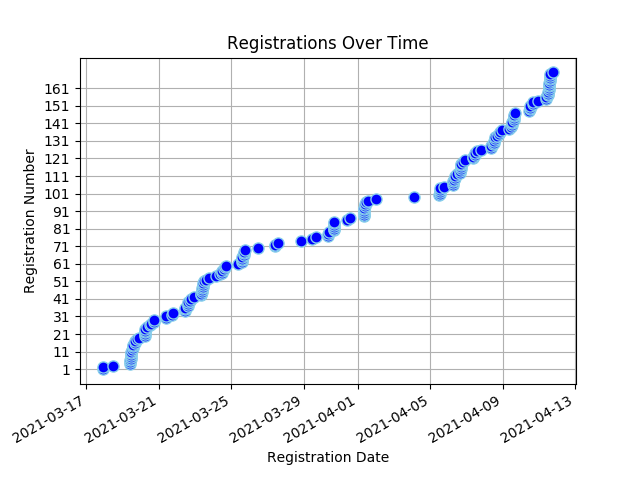
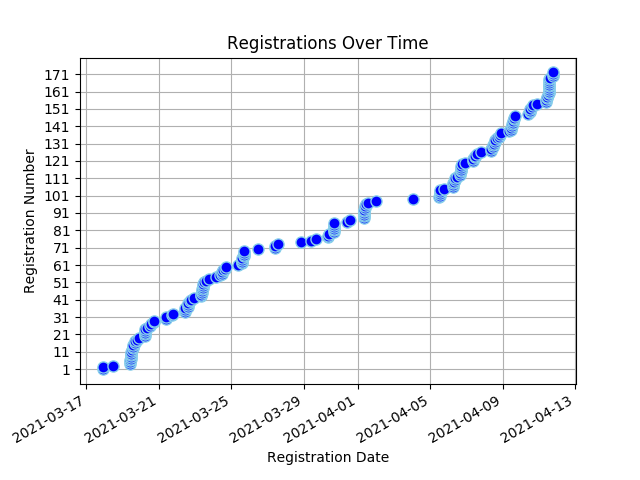
Registree stats backup on Sun 11 Apr 2021 19:36:07 SAST

Changed region(s): [[0.0625, 0.125, 0.875, 0.7188], [0.1875, 0.7188, 0.2188, 0.75]]

diff --git a/content/registrees/_index.md b/content/registrees/_index.md
@@ -3,7 +3,7 @@ title: Registration Stats
 draft: false
 ---
 
-<ul><li><strong>Number of Registrees</strong>: 170</li>
+<ul><li><strong>Number of Registrees</strong>: 172</li>
 
 <li><strong>Number of Clubs</strong>: 56</li>
 
@@ -33,6 +33,6 @@ draft: false
         </tr>
     </thead>
     <tbody>
-<tr><td>Natalie Abrahams</td><td>Cape Town</td><td>410W</td></tr><tr><td>Rashid Adams</td><td>Athlone</td><td>410W</td></tr><tr><td>Linda Anderson</td><td>George</td><td>410W</td></tr><tr><td>Linda Baumgarten</td><td>Sea Point</td><td>410W</td></tr><tr><td>Ulrike Behrens</td><td>Windhoek</td><td>410W</td></tr><tr><td>Valencia Beukes-Williams</td><td>Kuilsriver</td><td>410W</td></tr><tr><td>JOSE BRAGA BORGES</td><td>Malmesbury</td><td>410W</td></tr><tr><td>Paul Brauteseth</td><td>Port Shepstone</td><td>410E</td></tr><tr><td>Nelle Buhrmann</td><td>Sea Point</td><td>410W</td></tr><tr><td>Christopher Bull</td><td>The Wilds</td><td>410E</td></tr><tr><td>Herman Cadman</td><td>Stellenbosch</td><td>410W</td></tr><tr><td>Artemis Calomiris</td><td>Helderberg</td><td>410W</td></tr><tr><td>Linda Ann Cannone</td><td>Fish Hoek</td><td>410W</td></tr><tr><td>Lizelle Castle</td><td>Athlone</td><td>410W</td></tr><tr><td>Sue Charles</td><td>Tokai</td><td>410W</td></tr><tr><td>Perry Chetty</td><td>East Coast</td><td>410E</td></tr><tr><td>Delaney Yeltsin Cloete</td><td>Eden</td><td>410W</td></tr><tr><td>Esme Cornelius</td><td>Kuilsriver</td><td>410W</td></tr><tr><td>Sharon Cottle</td><td>Groote Schuur</td><td>410W</td></tr><tr><td>Peter Daniel</td><td>Gordons Bay</td><td>410W</td></tr><tr><td>Norma Daniel</td><td>Gordons Bay</td><td>410W</td></tr><tr><td>Engela de Kock</td><td>Swellendam</td><td>410W</td></tr><tr><td>Francois de Kock</td><td>Swellendam</td><td>410W</td></tr><tr><td>ANDRE DE VILLIERS</td><td>Malgas</td><td>410W</td></tr><tr><td>ANDRE DE VILLIERS</td><td>Malgas</td><td>410W</td></tr><tr><td>Peggy Du Plooy</td><td>Krugersdorp</td><td>410E</td></tr><tr><td>Ivan Du Plooy</td><td>Krugersdorp</td><td>410E</td></tr><tr><td>Desiree du Toit</td><td>Ramsgate</td><td>410E</td></tr><tr><td>Natalie Etridge</td><td>Sedgefield</td><td>410W</td></tr><tr><td>AIDAN Ewers</td><td>Newlands</td><td>410W</td></tr><tr><td>Roger Fahrbach</td><td>Windhoek</td><td>410W</td></tr><tr><td>Beate Fahrbach</td><td>Windhoek</td><td>410W</td></tr><tr><td>Jules Flanagan</td><td>Tokai</td><td>410W</td></tr><tr><td>Charles Flanagan</td><td>Tokai</td><td>410W</td></tr><tr><td>Clive Fox</td><td>Merriman</td><td>410W</td></tr><tr><td>Pat Fox</td><td>Merriman</td><td>410W</td></tr><tr><td>Martin Froise</td><td>Letaba Tzaneen</td><td>410E</td></tr><tr><td>Valerie Graham</td><td>Nelspruit</td><td>410E</td></tr><tr><td>Mike Graham</td><td>Nelspruit</td><td>410E</td></tr><tr><td>Viv Grater</td><td>Sedgefield</td><td>410W</td></tr><tr><td>Matty Grobler</td><td>Henties Bay</td><td>410W</td></tr><tr><td>Mattheus Groves</td><td>Sedgefield</td><td>410W</td></tr><tr><td>Barbara Haywood</td><td>Eden</td><td>410W</td></tr><tr><td>Mike Heathcote</td><td>Port Shepstone</td><td>410E</td></tr><tr><td>Zarina Hendricks</td><td>Athlone</td><td>410W</td></tr><tr><td>Dorothy Hess</td><td>Kuilsriver</td><td>410W</td></tr><tr><td>Wendy Higgins</td><td>Wilro Park</td><td>410E</td></tr><tr><td>Jacqui Hocking</td><td>Midrand</td><td>410E</td></tr><tr><td>Cliff Hocking</td><td>Midrand</td><td>410E</td></tr><tr><td>Liz Houston</td><td>Table View</td><td>410W</td></tr><tr><td>John Houston</td><td>Table View</td><td>410W</td></tr><tr><td>Alna Jackson</td><td>Pretoria Jakaranda</td><td>410E</td></tr><tr><td>Dawid Jacobs</td><td>Durbanville</td><td>410W</td></tr><tr><td>Jean Jacobs</td><td>Mitchells Plain</td><td>410W</td></tr><tr><td>WOLSLEY Jacobson</td><td>Cape Town</td><td>410W</td></tr><tr><td>MALCOLM JOHNSTON</td><td>Standerton</td><td>410E</td></tr><tr><td>Grant Jonathan</td><td>Gordons Bay</td><td>410W</td></tr><tr><td>Jerome Kern</td><td>Groote Schuur</td><td>410W</td></tr><tr><td>Ian King</td><td>Alberton</td><td>410E</td></tr><tr><td>Sandy King</td><td>Alberton</td><td>410E</td></tr><tr><td>Muya Koloko</td><td>Durbanville</td><td>410W</td></tr><tr><td>Zwaai Kruger</td><td>Sedgefield</td><td>410W</td></tr><tr><td>Natalie Laas</td><td>Alberton</td><td>410E</td></tr><tr><td>Bevil Lakay</td><td>Mitchells Plain</td><td>410W</td></tr><tr><td>Paula Lang</td><td>Gordons Bay</td><td>410W</td></tr><tr><td>Jimmy Lang</td><td>Gordons Bay</td><td>410W</td></tr><tr><td>Heather Lee</td><td>Cape Of Good Hope</td><td>410W</td></tr><tr><td>Zarina Luck</td><td>Newcastle</td><td>410E</td></tr><tr><td>Pam MacRobert</td><td>Groote Schuur</td><td>410W</td></tr><tr><td>Sharon Mangwende</td><td>Cape Town</td><td>410W</td></tr><tr><td>Richard MARCHANT</td><td>The Wilds</td><td>410E</td></tr><tr><td>Beaulieu Mare</td><td>Benoni Lakes</td><td>410E</td></tr><tr><td>Nick Maré</td><td>Benoni Lakes</td><td>410E</td></tr><tr><td>Jean Masson</td><td>Port Shepstone</td><td>410E</td></tr><tr><td>LANCE MAYTHAM</td><td>Swellendam</td><td>410W</td></tr><tr><td>ROSEMARIE MAYTHAM</td><td>Swellendam</td><td>410W</td></tr><tr><td>David Mccullough</td><td>Pretoria South</td><td>410E</td></tr><tr><td>Rochelle McDonald</td><td>Vereeniging</td><td>410E</td></tr><tr><td>Alec McKerrow</td><td>Port Alfred</td><td>410E</td></tr><tr><td>Stuart McPherson</td><td>Newlands</td><td>410E</td></tr><tr><td>Mark Meltzer</td><td>The Wilds</td><td>410E</td></tr><tr><td>Denis Meyer</td><td>Port Shepstone</td><td>410E</td></tr><tr><td>Roy Michas</td><td>Midrand</td><td>410E</td></tr><tr><td>Dawn Michas</td><td>Midrand</td><td>410E</td></tr><tr><td>BERNICE MILLS</td><td>Centurion</td><td>410E</td></tr><tr><td>Patrick Mills</td><td>Centurion</td><td>410E</td></tr><tr><td>Cherie Milosevich</td><td>Milnerton</td><td>410W</td></tr><tr><td>Alana Mitchell</td><td>Rustenburg</td><td>410E</td></tr><tr><td>Juan Mitchell</td><td>Rustenburg</td><td>410E</td></tr><tr><td>Virginia Mkhize</td><td>Cape Town</td><td>410W</td></tr><tr><td>Frauke E. Moeller</td><td>Windhoek</td><td>410W</td></tr><tr><td>Bernadine Moses</td><td>Cape Town</td><td>410W</td></tr><tr><td>Jacques Mostert</td><td>Merriman</td><td>410W</td></tr><tr><td>Suzanne Murray</td><td>Vereeniging</td><td>410E</td></tr><tr><td>Pieter Myburg</td><td>Wellington</td><td>410W</td></tr><tr><td>Pieter Nel</td><td>George</td><td>410W</td></tr><tr><td>Tillie Nel</td><td>Eden</td><td>410W</td></tr><tr><td>Mike Newlands</td><td>Port Alfred</td><td>410E</td></tr><tr><td>Mike Newlands</td><td>Port Alfred</td><td>410E</td></tr><tr><td>Chris Ocker</td><td>Fish Hoek</td><td>410W</td></tr><tr><td>Jenny Ocker</td><td>Fish Hoek</td><td>410W</td></tr><tr><td>Debra Olivier</td><td>Sedgefield</td><td>410W</td></tr><tr><td>Teresa Pantoleon</td><td>Vereeniging</td><td>410E</td></tr><tr><td>Sundru Pillay</td><td>Durbanville</td><td>410W</td></tr><tr><td>Tracey Polkinghorne</td><td>Kensington</td><td>410E</td></tr><tr><td>Gavin Polkinghorne</td><td>Kensington</td><td>410E</td></tr><tr><td>BRIAN PORTEOUS</td><td>Hibberdene</td><td>410E</td></tr><tr><td>Mary-Anne Ras</td><td>Swellendam</td><td>410W</td></tr><tr><td>Hugo Reniers</td><td>Nelspruit</td><td>410E</td></tr><tr><td>Mark Rossouw</td><td>Tokai</td><td>410W</td></tr><tr><td>Anthonie Petrus Roux</td><td>Moorreesburg</td><td>410W</td></tr><tr><td>Irene Rugheimer</td><td>Bedfordview</td><td>410E</td></tr><tr><td>Ingrid Russell</td><td>Fish Hoek</td><td>410W</td></tr><tr><td>Sharon Sampie</td><td>Bergvliet</td><td>410W</td></tr><tr><td>Frank Schatz</td><td>Windhoek</td><td>410W</td></tr><tr><td>Vera Schatz</td><td>Windhoek</td><td>410W</td></tr><tr><td>Francis Searle</td><td>Kouga</td><td>410E</td></tr><tr><td>Gloria Searle</td><td>Kouga</td><td>410E</td></tr><tr><td>Ami Sell</td><td>Windhoek</td><td>410W</td></tr><tr><td>Beryl Simpson</td><td>Cape Town</td><td>410W</td></tr><tr><td>Kenlis Sircoulomb</td><td>Windhoek</td><td>410W</td></tr><tr><td>Holger Sircoulomb</td><td>Windhoek</td><td>410W</td></tr><tr><td>Hennie Smeer</td><td>Windhoek</td><td>410W</td></tr><tr><td>Sue Smit</td><td>Centurion</td><td>410E</td></tr><tr><td>Herman Smit</td><td>Swellendam</td><td>410W</td></tr><tr><td>Jeff Smith</td><td>Port Shepstone</td><td>410E</td></tr><tr><td>Bennie Smith</td><td>Wellington</td><td>410W</td></tr><tr><td>Carmen Dolores Smith</td><td>Tokai</td><td>410W</td></tr><tr><td>David John Smith</td><td>Tokai</td><td>410W</td></tr><tr><td>LYN SNYMAN</td><td>Deep South</td><td>410W</td></tr><tr><td>Diana Sochen</td><td>Sea Point</td><td>410W</td></tr><tr><td>Max Stander</td><td>Port Alfred</td><td>410E</td></tr><tr><td>Ashley Stander</td><td>Krugersdorp</td><td>410E</td></tr><tr><td>Brett Jason Stander</td><td>Krugersdorp</td><td>410E</td></tr><tr><td>TIM STEENBERG</td><td>Wellington</td><td>410W</td></tr><tr><td>RORY stier</td><td>Deep South</td><td>410W</td></tr><tr><td>Patrick Strauss</td><td>Kuilsriver</td><td>410W</td></tr><tr><td>Lauryn Talbot</td><td>Benoni Lakes</td><td>410E</td></tr><tr><td>Pierre Theron</td><td>Midrand</td><td>410E</td></tr><tr><td>Moira Theron</td><td>Midrand</td><td>410E</td></tr><tr><td>Diane Townsend</td><td>Benoni Lakes</td><td>410E</td></tr><tr><td>Diane Townsend</td><td>Benoni Lakes</td><td>410E</td></tr><tr><td>David Alex Tshikala</td><td>Athlone</td><td>410W</td></tr><tr><td>Alistair Tuckett</td><td>Roodepoort Clearwater Cyber</td><td>410E</td></tr><tr><td>Rowan Tuckett</td><td>Roodepoort Clearwater Cyber</td><td>410E</td></tr><tr><td>Gail Tuckett</td><td>Roodepoort Clearwater Cyber</td><td>410E</td></tr><tr><td>Jiri Uchytil</td><td>Alberton</td><td>410E</td></tr><tr><td>Carl van Blerk</td><td>Eden</td><td>410W</td></tr><tr><td>HILARY LISE VAN BREDA</td><td>Cape Town</td><td>410W</td></tr><tr><td>Marina Van de Merwe</td><td>Malmesbury</td><td>410W</td></tr><tr><td>Sydney van Heerden</td><td>Wilro Park</td><td>410E</td></tr><tr><td>Sandy van Heerden</td><td>Wilro Park</td><td>410E</td></tr><tr><td>Neville Van Rensburg</td><td>Moorreesburg</td><td>410W</td></tr><tr><td>Johan van Rensburg</td><td>Windhoek</td><td>410W</td></tr><tr><td>Anne van Rensburg</td><td>Windhoek</td><td>410W</td></tr><tr><td>Jeannie van Wulven</td><td>Tygerberg Hills</td><td>410W</td></tr><tr><td>Alan van Wulven</td><td>Tygerberg Hills</td><td>410W</td></tr><tr><td>Deon van Wulven</td><td>Tygerberg Hills</td><td>410W</td></tr><tr><td>Kim van Wyk</td><td>North Durban</td><td>410E</td></tr><tr><td>Lindie van Wyk</td><td>Pretoria Jakaranda</td><td>410E</td></tr><tr><td>Edith Van Wyk-Nelson</td><td>Kuilsriver</td><td>410W</td></tr><tr><td>Russell Volker</td><td>Alberton</td><td>410E</td></tr><tr><td>Brian von der Decken</td><td>King William's Town</td><td>410E</td></tr><tr><td>Rinette Von Mollendorf</td><td>Durbanville</td><td>410W</td></tr><tr><td>Rochelle Vorster</td><td>Sedgefield</td><td>410W</td></tr><tr><td>Alastair Warman</td><td>Port Shepstone</td><td>410E</td></tr><tr><td>Allan Watson</td><td>Sea Point</td><td>410W</td></tr><tr><td>Neville Williamson</td><td>Port Alfred</td><td>410E</td></tr><tr><td>Rocky Wright</td><td>Table View</td><td>410W</td></tr><tr><td>Judy Young</td><td>Durbanville</td><td>410W</td></tr>
+<tr><td>Natalie Abrahams</td><td>Cape Town</td><td>410W</td></tr><tr><td>Rashid Adams</td><td>Athlone</td><td>410W</td></tr><tr><td>Linda Anderson</td><td>George</td><td>410W</td></tr><tr><td>Linda Baumgarten</td><td>Sea Point</td><td>410W</td></tr><tr><td>Ulrike Behrens</td><td>Windhoek</td><td>410W</td></tr><tr><td>Valencia Beukes-Williams</td><td>Kuilsriver</td><td>410W</td></tr><tr><td>JOSE BRAGA BORGES</td><td>Malmesbury</td><td>410W</td></tr><tr><td>Paul Brauteseth</td><td>Port Shepstone</td><td>410E</td></tr><tr><td>Nelle Buhrmann</td><td>Sea Point</td><td>410W</td></tr><tr><td>Christopher Bull</td><td>The Wilds</td><td>410E</td></tr><tr><td>Herman Cadman</td><td>Stellenbosch</td><td>410W</td></tr><tr><td>Artemis Calomiris</td><td>Helderberg</td><td>410W</td></tr><tr><td>Linda Ann Cannone</td><td>Fish Hoek</td><td>410W</td></tr><tr><td>Lizelle Castle</td><td>Athlone</td><td>410W</td></tr><tr><td>Sue Charles</td><td>Tokai</td><td>410W</td></tr><tr><td>Perry Chetty</td><td>East Coast</td><td>410E</td></tr><tr><td>Delaney Yeltsin Cloete</td><td>Eden</td><td>410W</td></tr><tr><td>Esme Cornelius</td><td>Kuilsriver</td><td>410W</td></tr><tr><td>Sharon Cottle</td><td>Groote Schuur</td><td>410W</td></tr><tr><td>Peter Daniel</td><td>Gordons Bay</td><td>410W</td></tr><tr><td>Norma Daniel</td><td>Gordons Bay</td><td>410W</td></tr><tr><td>Engela de Kock</td><td>Swellendam</td><td>410W</td></tr><tr><td>Francois de Kock</td><td>Swellendam</td><td>410W</td></tr><tr><td>ANDRE DE VILLIERS</td><td>Malgas</td><td>410W</td></tr><tr><td>ANDRE DE VILLIERS</td><td>Malgas</td><td>410W</td></tr><tr><td>Peggy Du Plooy</td><td>Krugersdorp</td><td>410E</td></tr><tr><td>Ivan Du Plooy</td><td>Krugersdorp</td><td>410E</td></tr><tr><td>Desiree du Toit</td><td>Ramsgate</td><td>410E</td></tr><tr><td>Natalie Etridge</td><td>Sedgefield</td><td>410W</td></tr><tr><td>AIDAN Ewers</td><td>Newlands</td><td>410W</td></tr><tr><td>Roger Fahrbach</td><td>Windhoek</td><td>410W</td></tr><tr><td>Beate Fahrbach</td><td>Windhoek</td><td>410W</td></tr><tr><td>Jules Flanagan</td><td>Tokai</td><td>410W</td></tr><tr><td>Charles Flanagan</td><td>Tokai</td><td>410W</td></tr><tr><td>Clive Fox</td><td>Merriman</td><td>410W</td></tr><tr><td>Pat Fox</td><td>Merriman</td><td>410W</td></tr><tr><td>Martin Froise</td><td>Letaba Tzaneen</td><td>410E</td></tr><tr><td>Valerie Graham</td><td>Nelspruit</td><td>410E</td></tr><tr><td>Mike Graham</td><td>Nelspruit</td><td>410E</td></tr><tr><td>Viv Grater</td><td>Sedgefield</td><td>410W</td></tr><tr><td>Matty Grobler</td><td>Henties Bay</td><td>410W</td></tr><tr><td>Mattheus Groves</td><td>Sedgefield</td><td>410W</td></tr><tr><td>Barbara Haywood</td><td>Eden</td><td>410W</td></tr><tr><td>Mike Heathcote</td><td>Port Shepstone</td><td>410E</td></tr><tr><td>Zarina Hendricks</td><td>Athlone</td><td>410W</td></tr><tr><td>Dorothy Hess</td><td>Kuilsriver</td><td>410W</td></tr><tr><td>Wendy Higgins</td><td>Wilro Park</td><td>410E</td></tr><tr><td>Jacqui Hocking</td><td>Midrand</td><td>410E</td></tr><tr><td>Cliff Hocking</td><td>Midrand</td><td>410E</td></tr><tr><td>Liz Houston</td><td>Table View</td><td>410W</td></tr><tr><td>John Houston</td><td>Table View</td><td>410W</td></tr><tr><td>Alna Jackson</td><td>Pretoria Jakaranda</td><td>410E</td></tr><tr><td>Dawid Jacobs</td><td>Durbanville</td><td>410W</td></tr><tr><td>Jean Jacobs</td><td>Mitchells Plain</td><td>410W</td></tr><tr><td>WOLSLEY Jacobson</td><td>Cape Town</td><td>410W</td></tr><tr><td>MALCOLM JOHNSTON</td><td>Standerton</td><td>410E</td></tr><tr><td>Grant Jonathan</td><td>Gordons Bay</td><td>410W</td></tr><tr><td>Jerome Kern</td><td>Groote Schuur</td><td>410W</td></tr><tr><td>Ian King</td><td>Alberton</td><td>410E</td></tr><tr><td>Sandy King</td><td>Alberton</td><td>410E</td></tr><tr><td>Muya Koloko</td><td>Durbanville</td><td>410W</td></tr><tr><td>Zwaai Kruger</td><td>Sedgefield</td><td>410W</td></tr><tr><td>Natalie Laas</td><td>Alberton</td><td>410E</td></tr><tr><td>Bevil Lakay</td><td>Mitchells Plain</td><td>410W</td></tr><tr><td>Paula Lang</td><td>Gordons Bay</td><td>410W</td></tr><tr><td>Jimmy Lang</td><td>Gordons Bay</td><td>410W</td></tr><tr><td>Heather Lee</td><td>Cape Of Good Hope</td><td>410W</td></tr><tr><td>Zarina Luck</td><td>Newcastle</td><td>410E</td></tr><tr><td>Pam MacRobert</td><td>Groote Schuur</td><td>410W</td></tr><tr><td>Sharon Mangwende</td><td>Cape Town</td><td>410W</td></tr><tr><td>Richard MARCHANT</td><td>The Wilds</td><td>410E</td></tr><tr><td>Beaulieu Mare</td><td>Benoni Lakes</td><td>410E</td></tr><tr><td>Nick Maré</td><td>Benoni Lakes</td><td>410E</td></tr><tr><td>Jean Masson</td><td>Port Shepstone</td><td>410E</td></tr><tr><td>LANCE MAYTHAM</td><td>Swellendam</td><td>410W</td></tr><tr><td>ROSEMARIE MAYTHAM</td><td>Swellendam</td><td>410W</td></tr><tr><td>David Mccullough</td><td>Pretoria South</td><td>410E</td></tr><tr><td>Rochelle McDonald</td><td>Vereeniging</td><td>410E</td></tr><tr><td>Alec McKerrow</td><td>Port Alfred</td><td>410E</td></tr><tr><td>Stuart McPherson</td><td>Newlands</td><td>410E</td></tr><tr><td>Mark Meltzer</td><td>The Wilds</td><td>410E</td></tr><tr><td>Denis Meyer</td><td>Port Shepstone</td><td>410E</td></tr><tr><td>Roy Michas</td><td>Midrand</td><td>410E</td></tr><tr><td>Dawn Michas</td><td>Midrand</td><td>410E</td></tr><tr><td>BERNICE MILLS</td><td>Centurion</td><td>410E</td></tr><tr><td>Patrick Mills</td><td>Centurion</td><td>410E</td></tr><tr><td>Cherie Milosevich</td><td>Milnerton</td><td>410W</td></tr><tr><td>Alana Mitchell</td><td>Rustenburg</td><td>410E</td></tr><tr><td>Juan Mitchell</td><td>Rustenburg</td><td>410E</td></tr><tr><td>Virginia Mkhize</td><td>Cape Town</td><td>410W</td></tr><tr><td>Frauke E. Moeller</td><td>Windhoek</td><td>410W</td></tr><tr><td>Bernadine Moses</td><td>Cape Town</td><td>410W</td></tr><tr><td>Jacques Mostert</td><td>Merriman</td><td>410W</td></tr><tr><td>Suzanne Murray</td><td>Vereeniging</td><td>410E</td></tr><tr><td>Pieter Myburg</td><td>Wellington</td><td>410W</td></tr><tr><td>Pieter Nel</td><td>George</td><td>410W</td></tr><tr><td>Tillie Nel</td><td>Eden</td><td>410W</td></tr><tr><td>Mike Newlands</td><td>Port Alfred</td><td>410E</td></tr><tr><td>Mike Newlands</td><td>Port Alfred</td><td>410E</td></tr><tr><td>Chris Ocker</td><td>Fish Hoek</td><td>410W</td></tr><tr><td>Jenny Ocker</td><td>Fish Hoek</td><td>410W</td></tr><tr><td>Debra Olivier</td><td>Sedgefield</td><td>410W</td></tr><tr><td>Teresa Pantoleon</td><td>Vereeniging</td><td>410E</td></tr><tr><td>Sundru Pillay</td><td>Durbanville</td><td>410W</td></tr><tr><td>Tracey Polkinghorne</td><td>Kensington</td><td>410E</td></tr><tr><td>Gavin Polkinghorne</td><td>Kensington</td><td>410E</td></tr><tr><td>BRIAN PORTEOUS</td><td>Hibberdene</td><td>410E</td></tr><tr><td>Mary-Anne Ras</td><td>Swellendam</td><td>410W</td></tr><tr><td>Hugo Reniers</td><td>Nelspruit</td><td>410E</td></tr><tr><td>Mark Rossouw</td><td>Tokai</td><td>410W</td></tr><tr><td>Anthonie Petrus Roux</td><td>Moorreesburg</td><td>410W</td></tr><tr><td>Irene Rugheimer</td><td>Bedfordview</td><td>410E</td></tr><tr><td>Ingrid Russell</td><td>Fish Hoek</td><td>410W</td></tr><tr><td>Rodney Sabatier</td><td>Letaba Tzaneen</td><td>410E</td></tr><tr><td>Sharon Sampie</td><td>Bergvliet</td><td>410W</td></tr><tr><td>Frank Schatz</td><td>Windhoek</td><td>410W</td></tr><tr><td>Vera Schatz</td><td>Windhoek</td><td>410W</td></tr><tr><td>Francis Searle</td><td>Kouga</td><td>410E</td></tr><tr><td>Gloria Searle</td><td>Kouga</td><td>410E</td></tr><tr><td>Ami Sell</td><td>Windhoek</td><td>410W</td></tr><tr><td>Beryl Simpson</td><td>Cape Town</td><td>410W</td></tr><tr><td>Kenlis Sircoulomb</td><td>Windhoek</td><td>410W</td></tr><tr><td>Holger Sircoulomb</td><td>Windhoek</td><td>410W</td></tr><tr><td>Hennie Smeer</td><td>Windhoek</td><td>410W</td></tr><tr><td>Sue Smit</td><td>Centurion</td><td>410E</td></tr><tr><td>Herman Smit</td><td>Swellendam</td><td>410W</td></tr><tr><td>Jeff Smith</td><td>Port Shepstone</td><td>410E</td></tr><tr><td>Bennie Smith</td><td>Wellington</td><td>410W</td></tr><tr><td>Carmen Dolores Smith</td><td>Tokai</td><td>410W</td></tr><tr><td>David John Smith</td><td>Tokai</td><td>410W</td></tr><tr><td>LYN SNYMAN</td><td>Deep South</td><td>410W</td></tr><tr><td>Diana Sochen</td><td>Sea Point</td><td>410W</td></tr><tr><td>Max Stander</td><td>Port Alfred</td><td>410E</td></tr><tr><td>Ashley Stander</td><td>Krugersdorp</td><td>410E</td></tr><tr><td>Brett Jason Stander</td><td>Krugersdorp</td><td>410E</td></tr><tr><td>TIM STEENBERG</td><td>Wellington</td><td>410W</td></tr><tr><td>RORY stier</td><td>Deep South</td><td>410W</td></tr><tr><td>Patrick Strauss</td><td>Kuilsriver</td><td>410W</td></tr><tr><td>Lauryn Talbot</td><td>Benoni Lakes</td><td>410E</td></tr><tr><td>Pierre Theron</td><td>Midrand</td><td>410E</td></tr><tr><td>Moira Theron</td><td>Midrand</td><td>410E</td></tr><tr><td>Diane Townsend</td><td>Benoni Lakes</td><td>410E</td></tr><tr><td>Diane Townsend</td><td>Benoni Lakes</td><td>410E</td></tr><tr><td>David Alex Tshikala</td><td>Athlone</td><td>410W</td></tr><tr><td>Alistair Tuckett</td><td>Roodepoort Clearwater Cyber</td><td>410E</td></tr><tr><td>Rowan Tuckett</td><td>Roodepoort Clearwater Cyber</td><td>410E</td></tr><tr><td>Gail Tuckett</td><td>Roodepoort Clearwater Cyber</td><td>410E</td></tr><tr><td>Jiri Uchytil</td><td>Alberton</td><td>410E</td></tr><tr><td>Carl van Blerk</td><td>Eden</td><td>410W</td></tr><tr><td>HILARY LISE VAN BREDA</td><td>Cape Town</td><td>410W</td></tr><tr><td>Marina Van de Merwe</td><td>Malmesbury</td><td>410W</td></tr><tr><td>Ingrid van der Merwe</td><td>Letaba Tzaneen</td><td>410E</td></tr><tr><td>Sydney van Heerden</td><td>Wilro Park</td><td>410E</td></tr><tr><td>Sandy van Heerden</td><td>Wilro Park</td><td>410E</td></tr><tr><td>Neville Van Rensburg</td><td>Moorreesburg</td><td>410W</td></tr><tr><td>Johan van Rensburg</td><td>Windhoek</td><td>410W</td></tr><tr><td>Anne van Rensburg</td><td>Windhoek</td><td>410W</td></tr><tr><td>Jeannie van Wulven</td><td>Tygerberg Hills</td><td>410W</td></tr><tr><td>Alan van Wulven</td><td>Tygerberg Hills</td><td>410W</td></tr><tr><td>Deon van Wulven</td><td>Tygerberg Hills</td><td>410W</td></tr><tr><td>Kim van Wyk</td><td>North Durban</td><td>410E</td></tr><tr><td>Lindie van Wyk</td><td>Pretoria Jakaranda</td><td>410E</td></tr><tr><td>Edith Van Wyk-Nelson</td><td>Kuilsriver</td><td>410W</td></tr><tr><td>Russell Volker</td><td>Alberton</td><td>410E</td></tr><tr><td>Brian von der Decken</td><td>King William's Town</td><td>410E</td></tr><tr><td>Rinette Von Mollendorf</td><td>Durbanville</td><td>410W</td></tr><tr><td>Rochelle Vorster</td><td>Sedgefield</td><td>410W</td></tr><tr><td>Alastair Warman</td><td>Port Shepstone</td><td>410E</td></tr><tr><td>Allan Watson</td><td>Sea Point</td><td>410W</td></tr><tr><td>Neville Williamson</td><td>Port Alfred</td><td>410E</td></tr><tr><td>Rocky Wright</td><td>Table View</td><td>410W</td></tr><tr><td>Judy Young</td><td>Durbanville</td><td>410W</td></tr>
 </tbody>
 </table>

diff --git a/content/full_stats/_index.md b/content/full_stats/_index.md
@@ -16,17 +16,17 @@ draft: false
 </head>
 <body>
 <h1 style="color: #000000;">Full Registration Stats</h1>
-<ul><li><strong>Number of Registrees</strong>: 170</li>
+<ul><li><strong>Number of Registrees</strong>: 172</li>
 <li><strong>Number of Clubs</strong>: 56</li>
 <li><strong>Club With Most Attendees</strong>: Windhoek (12 registrees)</li>
 
 <li><strong>Number of District 410W Convention Attendees</strong>: 99</li>
 <li><strong>Number of District 410W Convention Voters</strong>: 46</li>
-<li><strong>Number of District 410E Convention Attendees</strong>: 65</li>
-<li><strong>Number of District 410E Convention Voters</strong>: 36</li>
+<li><strong>Number of District 410E Convention Attendees</strong>: 67</li>
+<li><strong>Number of District 410E Convention Voters</strong>: 38</li>
 
-<li><strong>Number of MD410 Convention Attendees</strong>: 143</li>
-<li><strong>Number of MD410 Convention Voters</strong>: 75</li>
+<li><strong>Number of MD410 Convention Attendees</strong>: 145</li>
+<li><strong>Number of MD410 Convention Voters</strong>: 77</li>
 
 </ul>
 <h2>Registrees</h2>
@@ -1304,6 +1304,17 @@ draft: false
 </tr>
 
     
+<td>182</td>
+<td>Rodney Sabatier</td>
+<td>Letaba Tzaneen</td>
+<td>410E</td>
+<td style="background-color: lightgreen">Yes</td>
+<td style="background-color: lightgreen">Yes</td>
+<td style="background-color: lightgreen">Yes</td>
+<td>No</td>
+</tr>
+
+    
 <td>95</td>
 <td>Sharon Sampie</td>
 <td>Bergvliet</td>
@@ -1708,6 +1719,17 @@ draft: false
 <td style="background-color: lightgreen">Yes</td>
 <td style="background-color: lightgreen">Yes</td>
 <td>No</td>
+</tr>
+
+    
+<td>183</td>
+<td>Ingrid van der Merwe</td>
+<td>Letaba Tzaneen</td>
+<td>410E</td>
+<td style="background-color: lightgreen">Yes</td>
+<td style="background-color: lightgreen">Yes</td>
+<td style="background-color: lightgreen">Yes</td>
+<td style="background-color: lightgreen">Yes</td>
 </tr>
 
     
